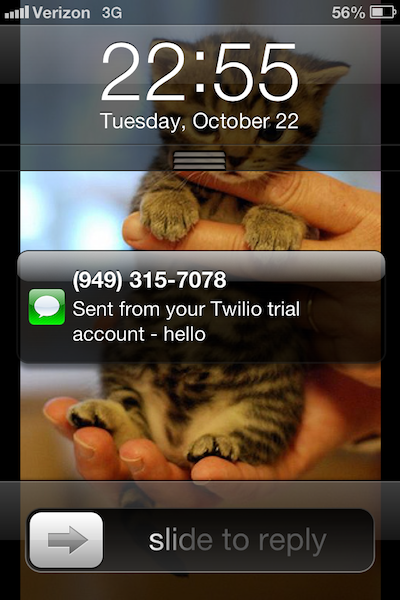
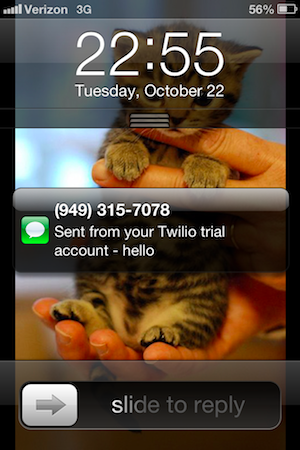
Site updated at 2013-10-23 13:35:55 UTC

diff --git a/blog/2013/10/22/twilio-on-rails-sms-basics/index.html b/blog/2013/10/22/twilio-on-rails-sms-basics/index.html
@@ -236,7 +236,7 @@ end
 
 <p>If everything works out, you should be able to send SMS messages from your browser!</p>
 
-<p><img class="center" src="/images/Twilio/Cat.png" title="Cat" alt="Cat"></p>
+<p><img class="center" src="/images/Twilio/cat.png" title="Cat" alt="Cat"></p>
 
 <h2>Caveats</h2>
 
